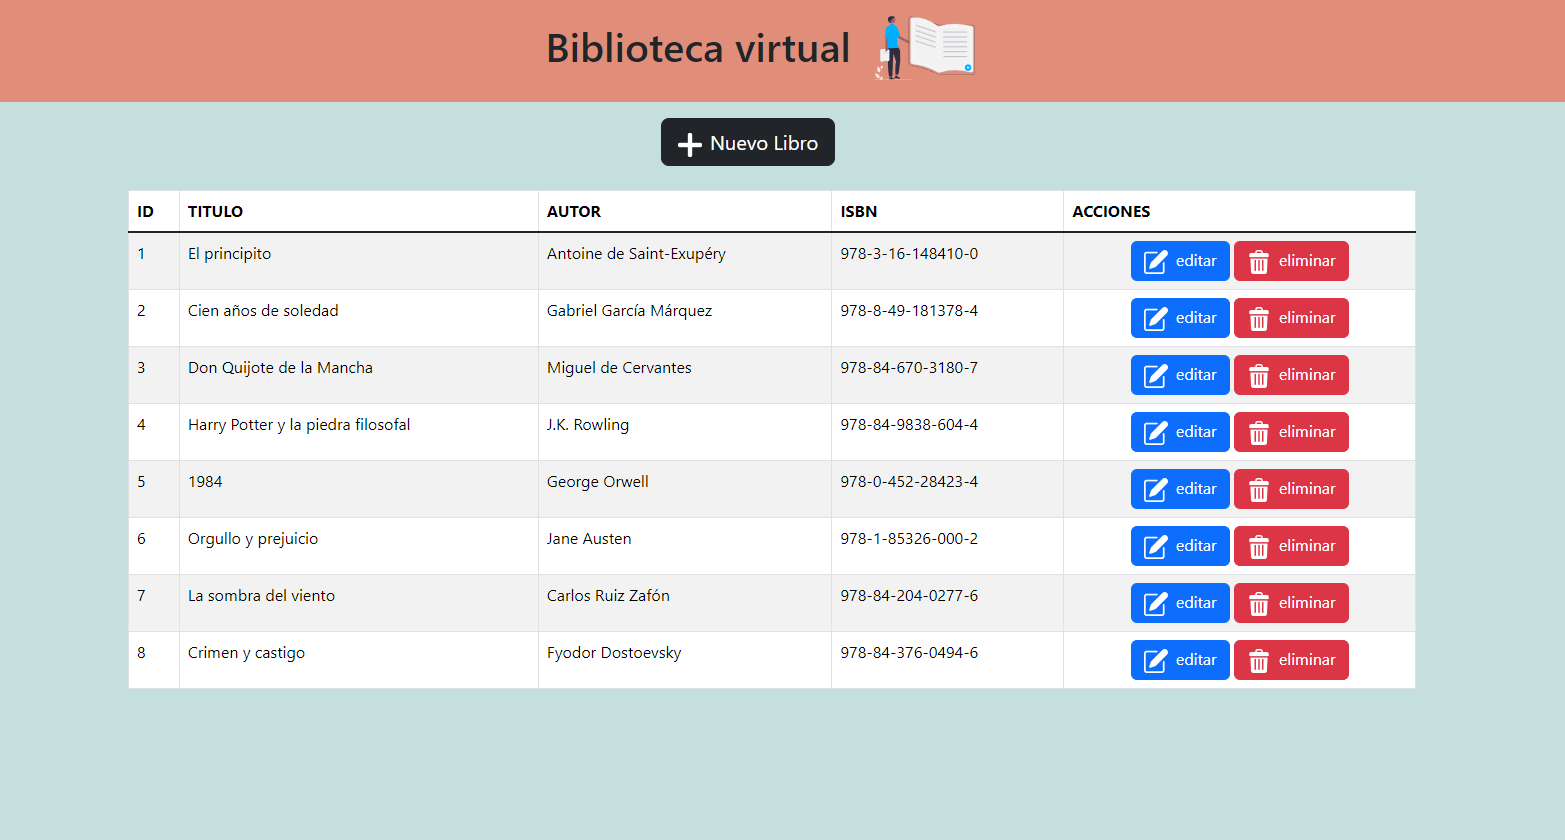
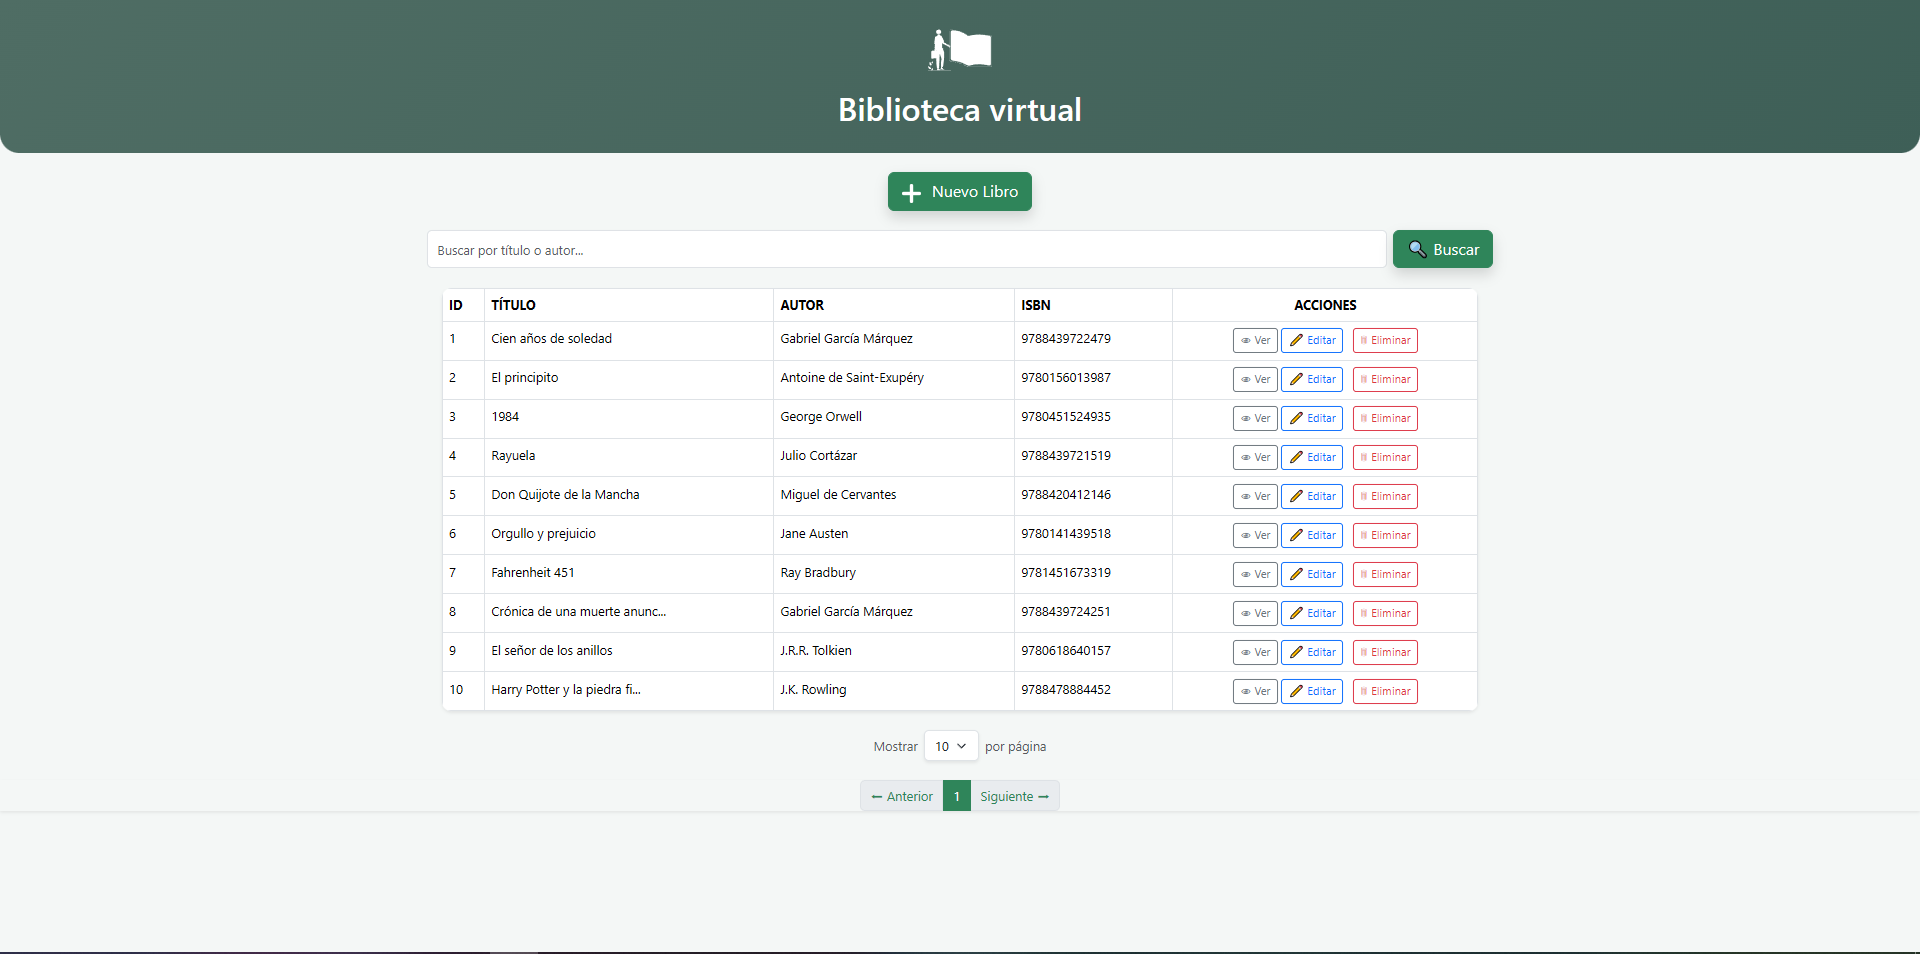
cambios en proyecto biblioteca virtual

diff --git a/src/components/MisProyectos.vue b/src/components/MisProyectos.vue
@@ -48,11 +48,14 @@ const proyectos = [
   {
     titulo: 'Biblioteca Virtual',
     descripcion:
-      'Sistema CRUD para registrar libros por título, autor e ISBN. Desarrollado con Java, Spring Boot y MySQL. Posee vistas con Thymeleaf, validaciones, listados ordenados y edición directa desde el panel.',
+      'Aplicación web CRUD para gestión de libros con Spring Boot, Thymeleaf y MySQL. Implementa paginación, buscador, validaciones, vistas responsivas y operaciones completas de administración.',
     imagenes: [
       './img/proyecto3/biblioteca1.png',
       './img/proyecto3/biblioteca2.png',
       './img/proyecto3/biblioteca3.png',
+      './img/proyecto3/biblioteca4.png',
+      './img/proyecto3/biblioteca5.png',
+      './img/proyecto3/biblioteca6.png',
     ],
     link: 'https://github.com/dakoo096/Biblioteca.git'
   },
